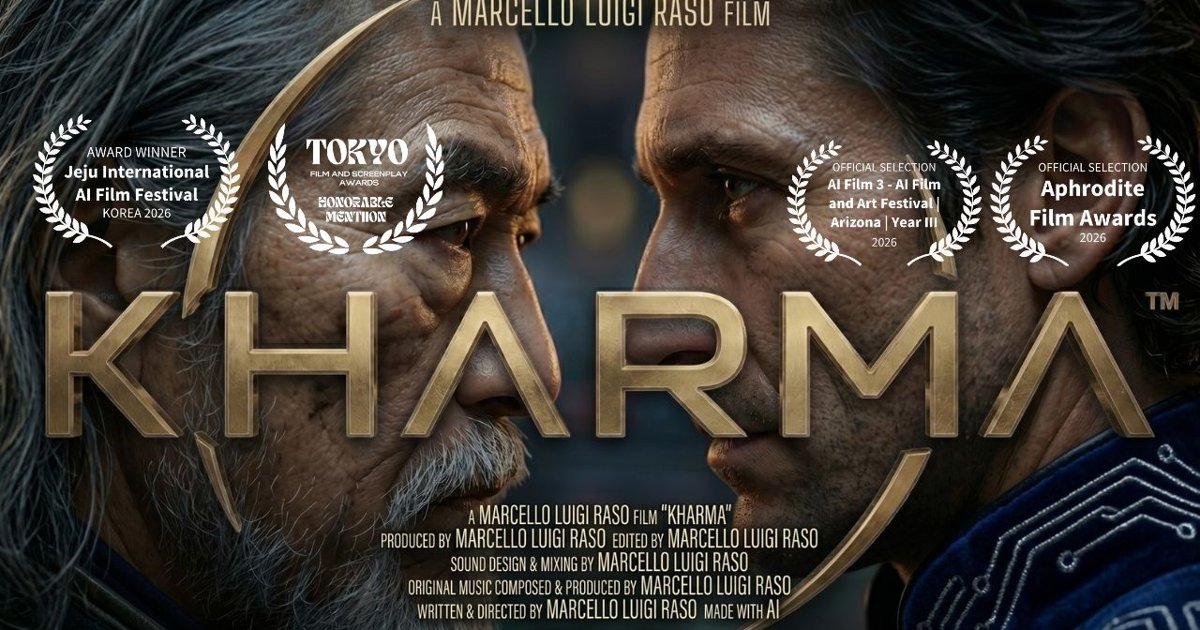
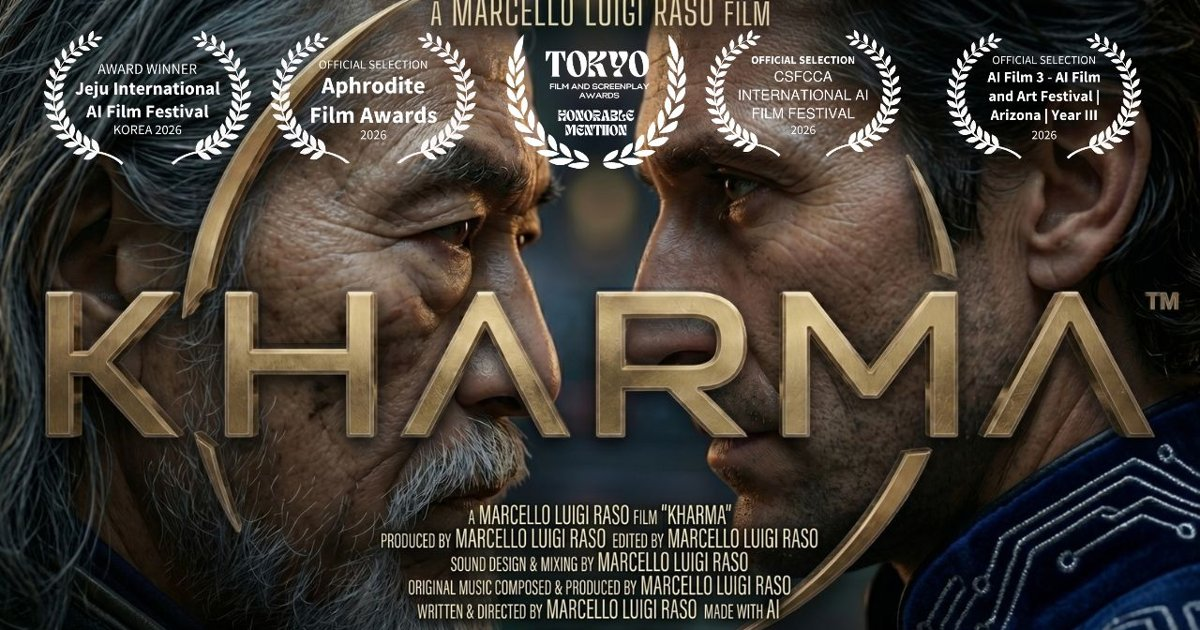
KHARMA: updated poster with five laurels; social preview
Claude-Session: https://claude.ai/code/session_01B63JUKtCur1Eo53WcxYEMo

Changed region(s): [[0.0308, 0.0302, 1.0, 0.4222]]

diff --git a/index.html b/index.html
@@ -415,7 +415,7 @@ img{max-width:100%}
       <div class="tags"><span class="hi">Award Winner · Jeju AI International Film Festival</span><span class="hi">Honorable Mention · Tokyo Film &amp; Screenplay Awards</span><span>WGA Registered</span><span>Streaming on Shaike</span></div>
     </header>
     <a class="screen" data-yt="pl1MKsME1ZU" data-title="KHARMA" href="https://www.youtube.com/watch?v=pl1MKsME1ZU" target="_blank" rel="noopener">
-      <img src="img/poster.webp" alt="KHARMA poster with festival laurels">
+      <img src="img/poster-2026.webp" alt="KHARMA poster with festival laurels from Jeju, Aphrodite, Tokyo, CSFCCA and AIFILM3">
       <span class="tc">14:17</span>
       <span class="play"><i></i>Play KHARMA</span>
     </a>
